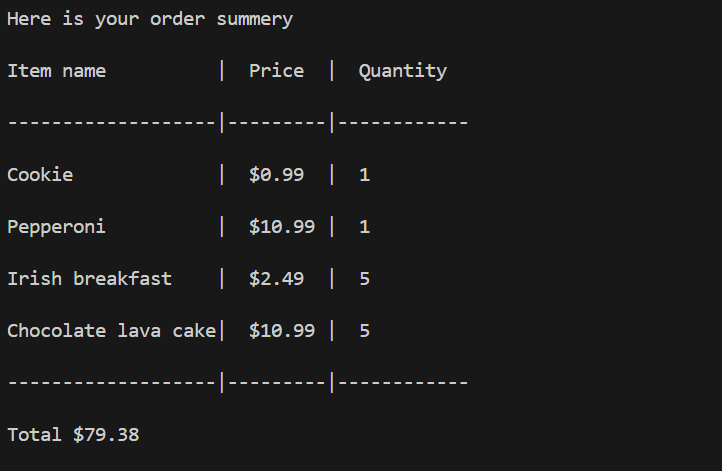
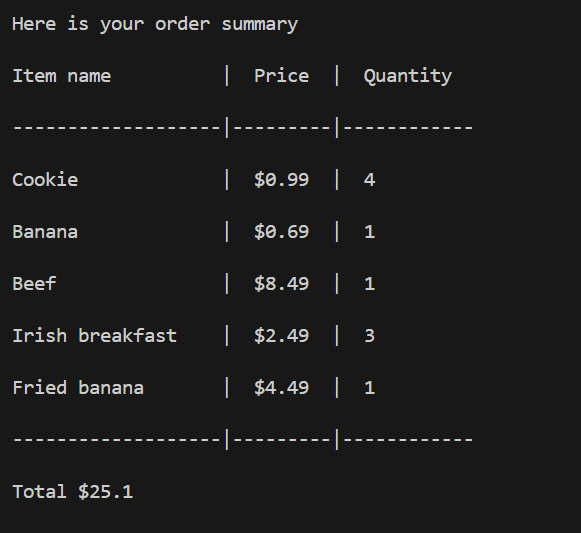
update image

diff --git a/menu.py b/menu.py
@@ -68,14 +68,12 @@ def printReciept():
         item_name_text = "Item name          "
         price_text = "  Price  "
         quantity_text = "  Quantity  "
-        print("Here is your order summery")
+        print("Here is your order summary")
         print(" ")
         print(f"{item_name_text}|{price_text}|{quantity_text}")
         print(" ")
         print ('-' * len(item_name_text) + "|" + '-' * len(price_text) + "|" + '-' * len(quantity_text))
         total = 0
-        
-
         for item in order_details:
             num_of_spaces = 2
             print(" ")
@@ -95,7 +93,6 @@ def printReciept():
         print(" ")
         print(f"Total ${total}")
         print(" ")
-        
     else :
         print("We are sorry, you did not like our menu...")
     print(" ")
